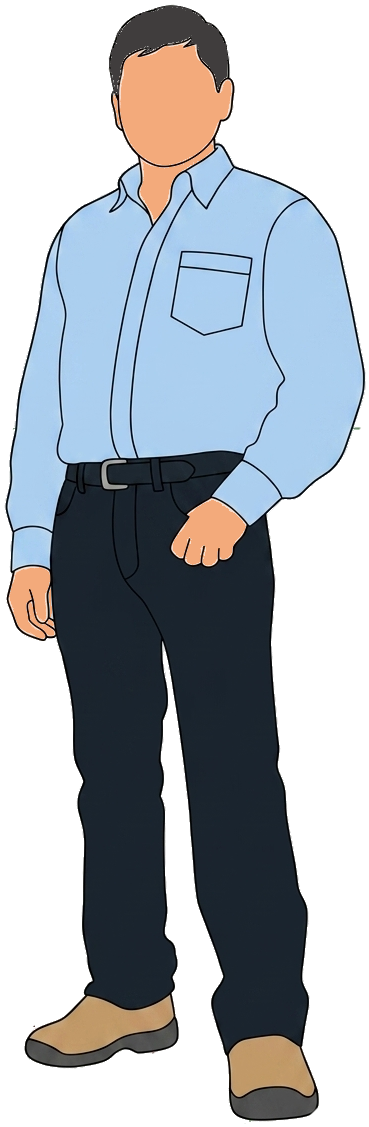
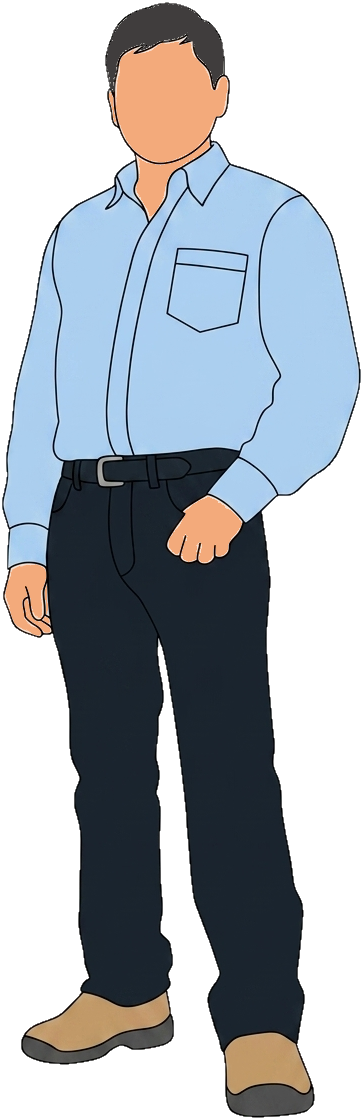
Scale figure: clean cutout, 1.72 m, off to the left of the origin
Three fixes from a side-by-side with SketchUp's figure (user report):

- Position: Sumari stood ON the origin, hiding the drawing reference.
  make_billboard_group gains a position anchor; the fresh-document
  figure now stands 2.5 m to the left, SketchUp-style.
- Image cleanup: the rushed cutout left ~2300 opaque gray background
  pixels fringing the silhouette plus floating specks. Cleaned with
  connected-component filtering, gray-fringe stripping down to the
  cartoon outline, a 1px antialiased edge, alpha-bleed for bilinear
  sampling, and a tight crop.
- Height: 1.65 -> 1.72 m, the reference height for proportions.

Claude-Session: https://claude.ai/code/session_01PU5msa8L2CTed4ouTRodr9

diff --git a/views/main_window.py b/views/main_window.py
@@ -1585,13 +1585,17 @@ class MainWindow(QMainWindow):
         self._update_title()
 
     def _insert_scale_figure(self) -> None:
-        """Place the 1.75 m scale figure near the origin in a fresh document,
-        SketchUp-style. A plain group — select and Delete removes it. Added
-        outside the undo history and without dirtying the document."""
-        group = self._make_billboard_person("sumari.png", height=1.65,
-                                            name="Sumari")
+        """Place the scale figure in a fresh document, SketchUp-style: OFF
+        to the left of the origin, so the origin stays visible as the
+        drawing reference (user request — SketchUp does the same). 1.72 m
+        tall. A plain group — select and Delete removes it. Added outside
+        the undo history and without dirtying the document."""
+        from PySide6.QtGui import QVector3D
+        at = QVector3D(-2.5, 0.0, 0.0)
+        group = self._make_billboard_person("sumari.png", height=1.72,
+                                            name="Sumari", position=at)
         if group is None:
-            group = self._make_billboard_person()
+            group = self._make_billboard_person(position=at)
         if group is None:
             return
         scene = self.viewport.scene
@@ -1601,7 +1605,7 @@ class MainWindow(QMainWindow):
 
     def _make_billboard_person(self, image: str = "person_billboard.png",
                                height: float = 1.75,
-                               name: str | None = None):
+                               name: str | None = None, position=None):
         """A face-me scale figure (arch-viz cutout)."""
         from PySide6.QtGui import QImage
         from core.group import make_billboard_group
@@ -1613,7 +1617,8 @@ class MainWindow(QMainWindow):
         if img.isNull() or img.height() == 0:
             return None
         return make_billboard_group(str(path), height, name or tr("Person"),
-                                    img.width() / img.height())
+                                    img.width() / img.height(),
+                                    position=position)
 
     def _on_insert_person_2d(self, image: str = "person_billboard.png",
                              height: float = 1.75,

diff --git a/tests/test_scale_figure.py b/tests/test_scale_figure.py
@@ -1,0 +1,46 @@
+# SPDX-License-Identifier: GPL-3.0-or-later
+# Copyright (C) 2026 Marco Sumari Tellez and IngeTrazo contributors.
+"""The Sumari scale figure in a fresh document: 1.72 m tall and OFF to the
+left of the origin (SketchUp-style), so the origin stays visible as the
+drawing reference."""
+from __future__ import annotations
+
+import sys
+
+from PySide6.QtWidgets import QApplication
+
+if QApplication.instance() is None:
+    QApplication(sys.argv[:1])
+
+
+def test_scale_figure_left_of_origin_and_172():
+    from views.main_window import MainWindow
+    win = MainWindow()
+    try:
+        fig = next(g for g in win.viewport.scene.groups
+                   if getattr(g, "billboard", False))
+        assert fig.name == "Sumari"
+        xs = [v.position.x() for v in fig.mesh.vertices]
+        ys = [v.position.y() for v in fig.mesh.vertices]
+        zs = [v.position.z() for v in fig.mesh.vertices]
+        anchor_x = (min(xs) + max(xs)) / 2
+        assert anchor_x < -1.0                     # clear of the origin, left
+        assert abs((min(ys) + max(ys)) / 2) < 1e-6
+        assert min(zs) == 0.0                      # feet on the ground
+        assert abs(max(zs) - 1.72) < 1e-6          # the reference height
+    finally:
+        win._saved_version = win.viewport.scene.version
+        win.close()
+
+
+def test_billboard_group_position_offsets_anchor():
+    from PySide6.QtGui import QVector3D
+    from core.group import make_billboard_group
+    g = make_billboard_group("x.png", 2.0, "P", 0.5,
+                             position=QVector3D(-3.0, 1.0, 0.0))
+    xs = [v.position.x() for v in g.mesh.vertices]
+    ys = [v.position.y() for v in g.mesh.vertices]
+    zs = [v.position.z() for v in g.mesh.vertices]
+    assert abs((min(xs) + max(xs)) / 2 + 3.0) < 1e-9
+    assert ys == [1.0] * 4
+    assert (min(zs), max(zs)) == (0.0, 2.0)

diff --git a/core/group.py b/core/group.py
@@ -58,14 +58,16 @@ class Group:
 
 
 def make_billboard_group(image_path: str, height: float, name: str,
-                         aspect: float) -> Group:
+                         aspect: float, position=None) -> Group:
     """A face-me billboard group: one textured quad, ``height`` metres tall,
-    anchored at the origin. The viewport rotates it to face the camera."""
+    anchored at ``position`` (origin by default). The viewport rotates it
+    around that anchor to face the camera."""
     from PySide6.QtGui import QVector3D
     mesh = Mesh()
     w = height * aspect
-    quad = [QVector3D(-w / 2, 0, 0), QVector3D(w / 2, 0, 0),
-            QVector3D(w / 2, 0, height), QVector3D(-w / 2, 0, height)]
+    p = position if position is not None else QVector3D(0, 0, 0)
+    quad = [p + QVector3D(-w / 2, 0, 0), p + QVector3D(w / 2, 0, 0),
+            p + QVector3D(w / 2, 0, height), p + QVector3D(-w / 2, 0, height)]
     face = mesh.add_face(quad)
     face.attrs["texture"] = {"path": str(image_path), "sw": w, "sh": height}
     g = Group(mesh, name=name)
